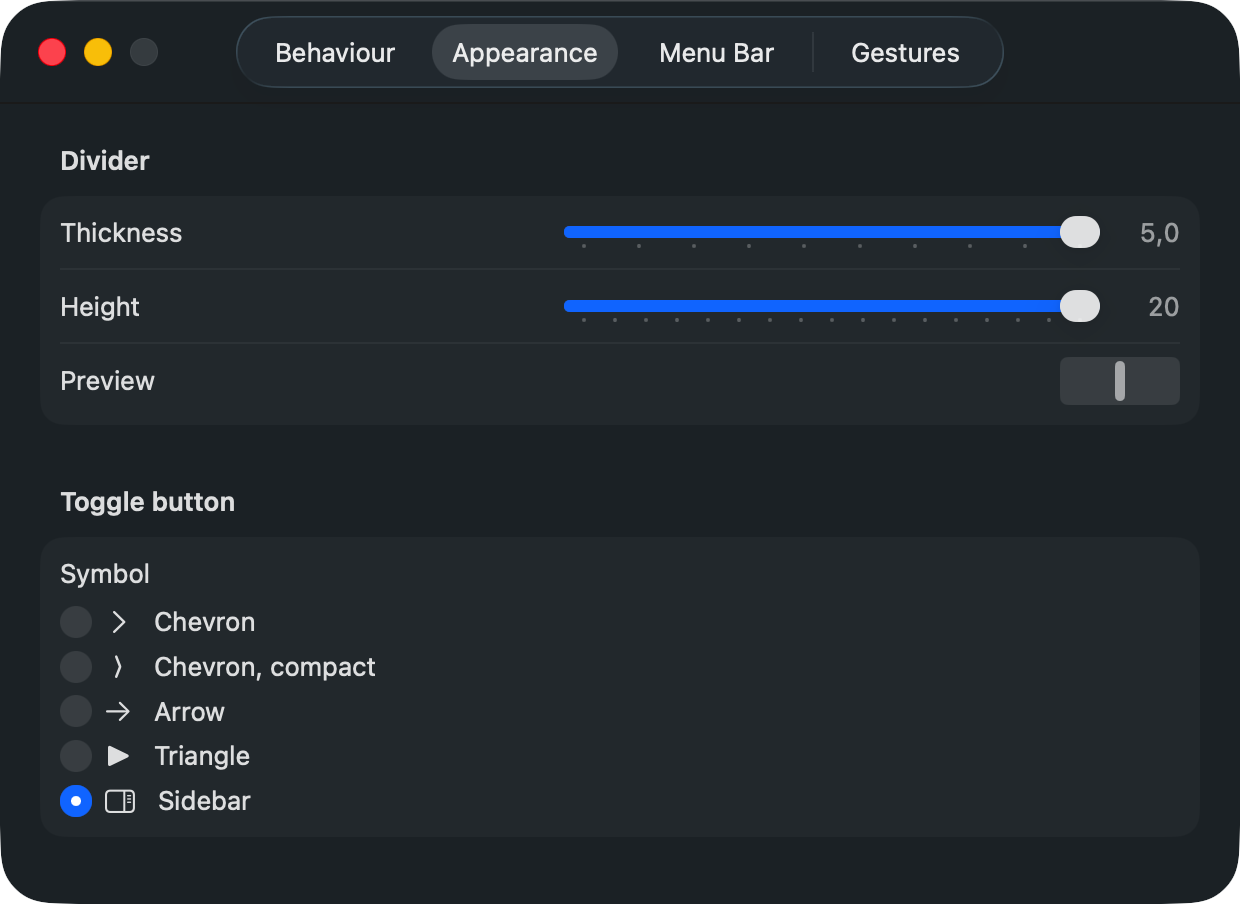
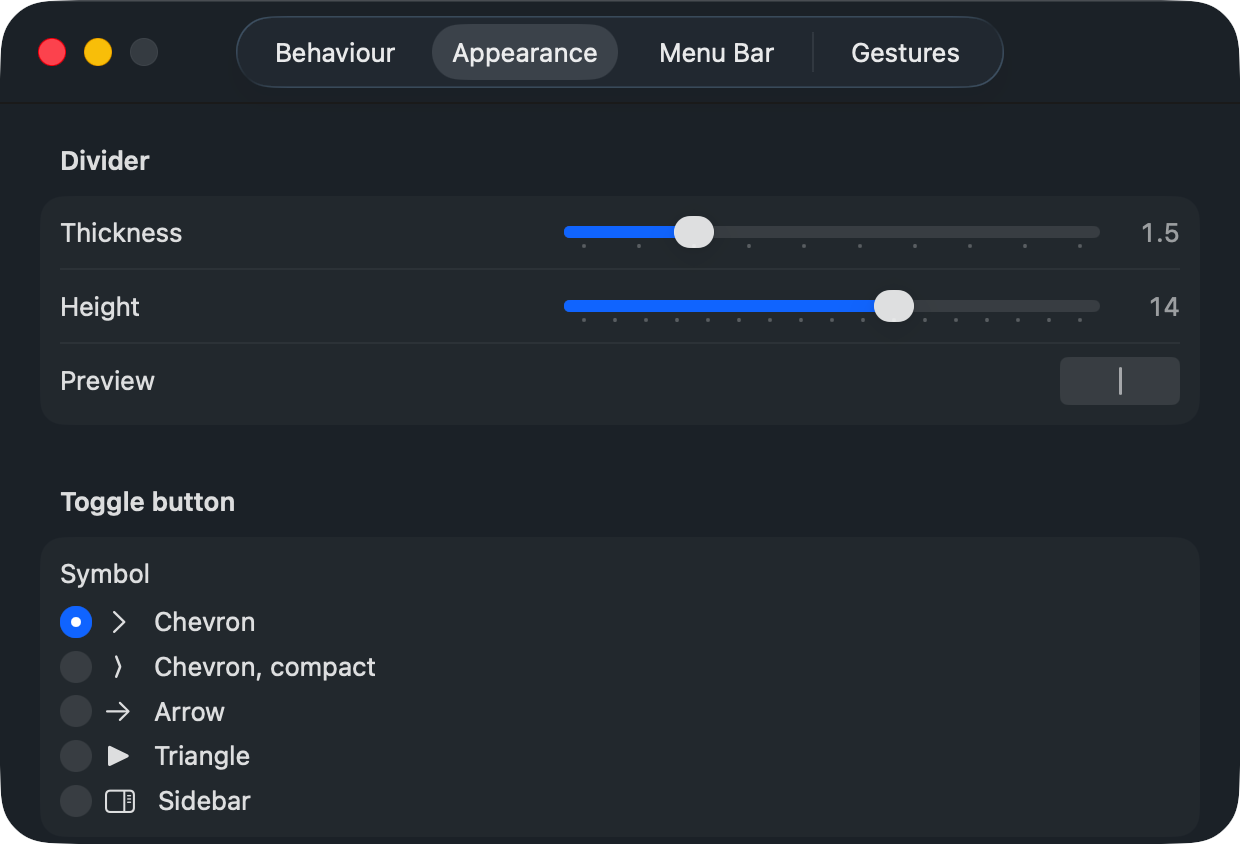
Retake the settings pictures, and make the window fit what is on it
The README showed 0.2.0's settings. Behaviour has gained two switches since, and
neither was in the picture that is supposed to be the proof they exist.

Retaking them turned up two things worth fixing first. The window was 620x452 for
every tab, and Behaviour no longer fitted: the keyboard shortcuts were cut in half
and the update switch was below the fold entirely, which is the one control this
release most needs a reader to find. Held tall enough for Behaviour, half of
Appearance was empty instead. So the height belongs to the tab now, measured per
tab rather than guessed, and the width stays fixed for the reason it always was:
at 470 macOS swept all four tabs into a chevron that names none of them.

The other was in the picture itself. "1,5" sat next to the word "Thickness":
"\(value, specifier:)" formats through the system locale while every word around
it comes from the app's own language picker. A window with its own language should
count in it, so the sliders format against that locale now.

Taking the pictures no longer needs a person. CORNICE_SETTINGS_TAB opens the tab
asked for, so there is no clicking, and the window logs its own number, because
nothing outside the process can look it up: on macOS 26 CGWindowListCopyWindowInfo
returns only the caller's own windows without Screen Recording, and screencapture
-l wants exactly that number to keep the corners rounded. Three launches, three
files, same result whoever runs it.
[…]

diff --git a/Cornice/SettingsView.swift b/Cornice/SettingsView.swift
@@ -48,18 +48,72 @@ struct SettingsView: View {
         var alwaysHidden: [MenuBarItem] = []
     }
 
+    /// A number in the language the window is written in, not the one the machine is set
+    /// to. `"\(value, specifier: "%.1f")"` follows the system locale, which put "1,5"
+    /// beside the word "Thickness" on a Russian machine showing the English interface.
+    private func oneDecimal(_ value: Double) -> String {
+        value.formatted(
+            .number.precision(.fractionLength(1)).locale(preferences.language.locale))
+    }
+
+    /// Which tab opens first.
+    ///
+    /// Only ever anything but `.behaviour` when `CORNICE_SETTINGS_TAB` names another one,
+    /// which is how the README pictures are taken: three launches, no clicking, and the
+    /// same tab every time whoever runs it. Driving a `TabView` from outside needs a
+    /// selection, and a selection needs tags, which is all this adds.
+    enum Tab: String {
+        case behaviour, appearance, menuBar, gestures
+
+        static var requested: Tab {
+            let asked = ProcessInfo.processInfo.environment["CORNICE_SETTINGS_TAB"] ?? ""
+            return Tab(rawValue: asked) ?? .behaviour
+        }
+
+        /// How tall this tab needs to be, so the window follows the tab rather than one
+        /// size serving none of them.
+        ///
+        /// One fixed height cannot do it any more: Behaviour needs about twice what
+        /// Appearance does, and it grew again this release. Held at the tallest, half of
+        /// Appearance is empty; held anywhere shorter, the update switch at the bottom of
+        /// Behaviour falls below the fold, which is the worst of the two because it hides
+        /// a control rather than showing nothing.
+        ///
+        /// Measured, not guessed, and worth re-measuring when a section is added: open
+        /// each tab with `CORNICE_SETTINGS_TAB` and look at where the last box ends.
+        var height: CGFloat {
+            switch self {
+            case .behaviour:  750
+            case .appearance: 370
+            case .menuBar:    460
+            case .gestures:   600
+            }
+        }
+    }
+
+    @State private var tab = Tab.requested
+
     var body: some View {
-        TabView {
-            behaviour.tabItem { Label(L.t("Behaviour"), systemImage: "slider.horizontal.3") }
-            appearance.tabItem { Label(L.t("Appearance"), systemImage: "paintbrush") }
-            arrangementList.tabItem { Label(L.t("Menu Bar"), systemImage: "menubar.rectangle") }
-            gestureSettings.tabItem { Label(L.t("Gestures"), systemImage: "hand.draw") }
+        TabView(selection: $tab) {
+            behaviour
+                .tabItem { Label(L.t("Behaviour"), systemImage: "slider.horizontal.3") }
+                .tag(Tab.behaviour)
+            appearance
+                .tabItem { Label(L.t("Appearance"), systemImage: "paintbrush") }
+                .tag(Tab.appearance)
+            arrangementList
+                .tabItem { Label(L.t("Menu Bar"), systemImage: "menubar.rectangle") }
+                .tag(Tab.menuBar)
+            gestureSettings
+                .tabItem { Label(L.t("Gestures"), systemImage: "hand.draw") }
+                .tag(Tab.gestures)
         }
         // Wide enough for four tabs to sit side by side in every language Cornice speaks.
         // At 470 macOS gave up on fitting them and swept all four into a "more toolbar
         // items" chevron, which turned one click into two and hid the tabs behind a
-        // control that names none of them.
-        .frame(width: 620, height: 400)
+        // control that names none of them. Width is fixed for that reason; height is not,
+        // because the tabs are nothing like the same length.
+        .frame(width: 620, height: tab.height)
         .task {
             snapshot = arrangement()
             accessibilityGranted = AccessibilityPermission.isGranted
@@ -91,7 +145,7 @@ struct SettingsView: View {
                             // seconds, so anything below that is a number the mechanism
                             // cannot honour, and offering it is a small lie.
                             Slider(value: $preferences.autoCollapseDelay, in: 0.2...3, step: 0.1)
-                            Text("\(preferences.autoCollapseDelay, specifier: "%.1f") s")
+                            Text(oneDecimal(preferences.autoCollapseDelay) + " s")
                                 .monospacedDigit()
                                 .frame(width: 44, alignment: .trailing)
                         }
@@ -278,7 +332,7 @@ struct SettingsView: View {
                 LabeledContent(L.t("Thickness")) {
                     HStack {
                         Slider(value: $preferences.dividerThickness, in: 0.5...5, step: 0.5)
-                        Text("\(preferences.dividerThickness, specifier: "%.1f")")
+                        Text(oneDecimal(preferences.dividerThickness))
                             .monospacedDigit()
                             .frame(width: 32, alignment: .trailing)
                     }

diff --git a/Cornice/SettingsWindowController.swift b/Cornice/SettingsWindowController.swift
@@ -4,6 +4,7 @@
 //
 
 import AppKit
+import OSLog
 import SwiftUI
 
 /// Owns the settings window.
@@ -20,7 +21,7 @@ final class SettingsWindowController {
     func show<Content: View>(_ content: Content) {
         if window == nil {
             let window = NSWindow(
-                contentRect: NSRect(x: 0, y: 0, width: 620, height: 452),
+                contentRect: NSRect(x: 0, y: 0, width: 620, height: 750),
                 styleMask: [.titled, .closable, .miniaturizable],
                 backing: .buffered,
                 defer: false)
@@ -39,5 +40,16 @@ final class SettingsWindowController {
         // an accessory app is never the active one.
         NSApp.activate(ignoringOtherApps: true)
         window?.makeKeyAndOrderFront(nil)
+
+        // An `NSWindow`'s number is its `CGWindowID`, which is what `screencapture -l`
+        // wants. Nothing outside this process can look it up: on macOS 26
+        // `CGWindowListCopyWindowInfo` returns only the caller's own windows unless the
+        // caller holds Screen Recording, and the shell taking the README pictures does
+        // not. The window knows it for free, so it says so, and the capture stops needing
+        // a rectangle guessed from Accessibility, which would square off the corners and
+        // let the desktop show through them.
+        if let number = window?.windowNumber {
+            log.info("settings window id \(number, privacy: .public)")
+        }
     }
 }

diff --git a/Cornice/Localization.swift b/Cornice/Localization.swift
@@ -39,6 +39,14 @@ enum Language: String, CaseIterable, Identifiable, Sendable {
         }
     }
 
+    /// For formatting numbers in the language the user picked here.
+    ///
+    /// Without it a decimal point follows the *system* locale while every word on the
+    /// screen follows this one, so a Russian machine showing the English interface put
+    /// "1,5" next to "Thickness". The window has its own language; its numbers should
+    /// speak it too.
+    var locale: Locale { Locale(identifier: rawValue) }
+
     /// The closest match to the system's preferred languages, falling back to English.
     static var systemDefault: Language {
         for identifier in Locale.preferredLanguages {

diff --git a/docs/releases/0.3.0.md b/docs/releases/0.3.0.md
@@ -7,8 +7,10 @@
 
 ### Fixed
 - The Menu Bar tab was splitting its list at the toggle button, which sits at the right-hand end of the bar and means nothing. With the icons revealed that filed almost everything as hidden. It reads the dividers now, and lists three sections when the always hidden zone is on.
+- Numbers in Settings follow the language you picked in Settings. They were following the system's instead, so a Russian machine showing the English interface put "1,5" next to "Thickness".
 
 ### Changed
+- The settings window is as tall as the tab you are on. Behaviour had outgrown one fixed height and its last controls fell below the fold, while Appearance sat half empty at the same size.
 - The Appearance preview shows both dividers when the zone is switched on, at real size, as it already did for one.
 
 **Install:** download `Cornice.dmg` below, drag it onto Applications.
